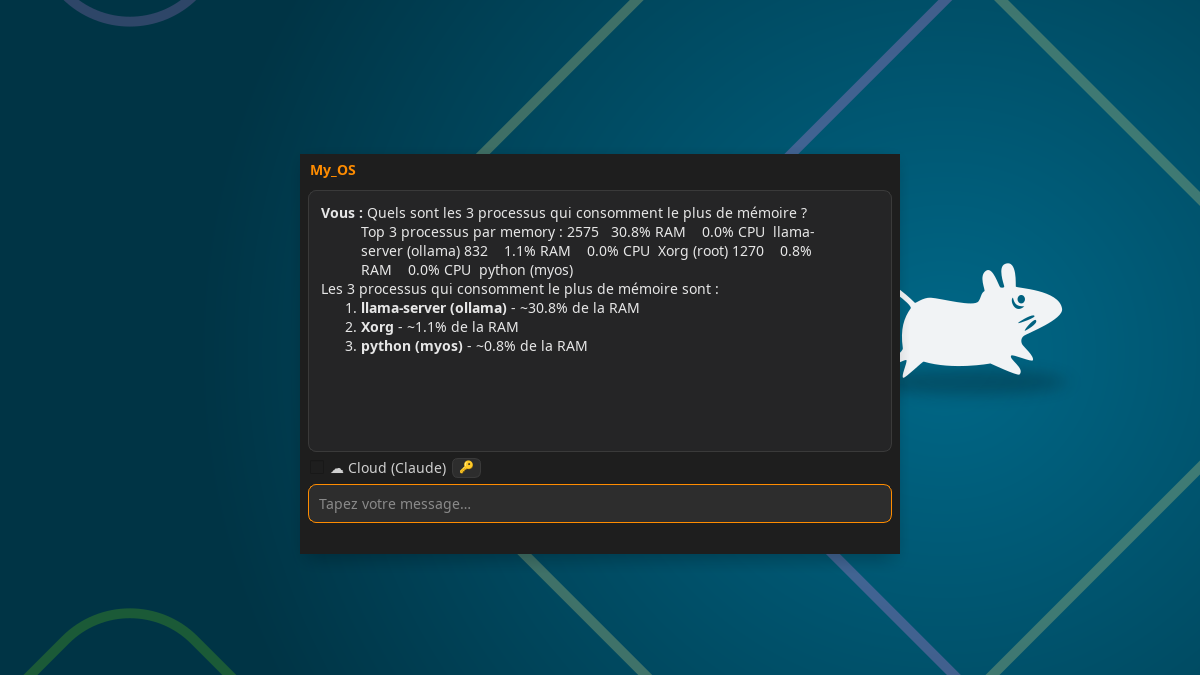
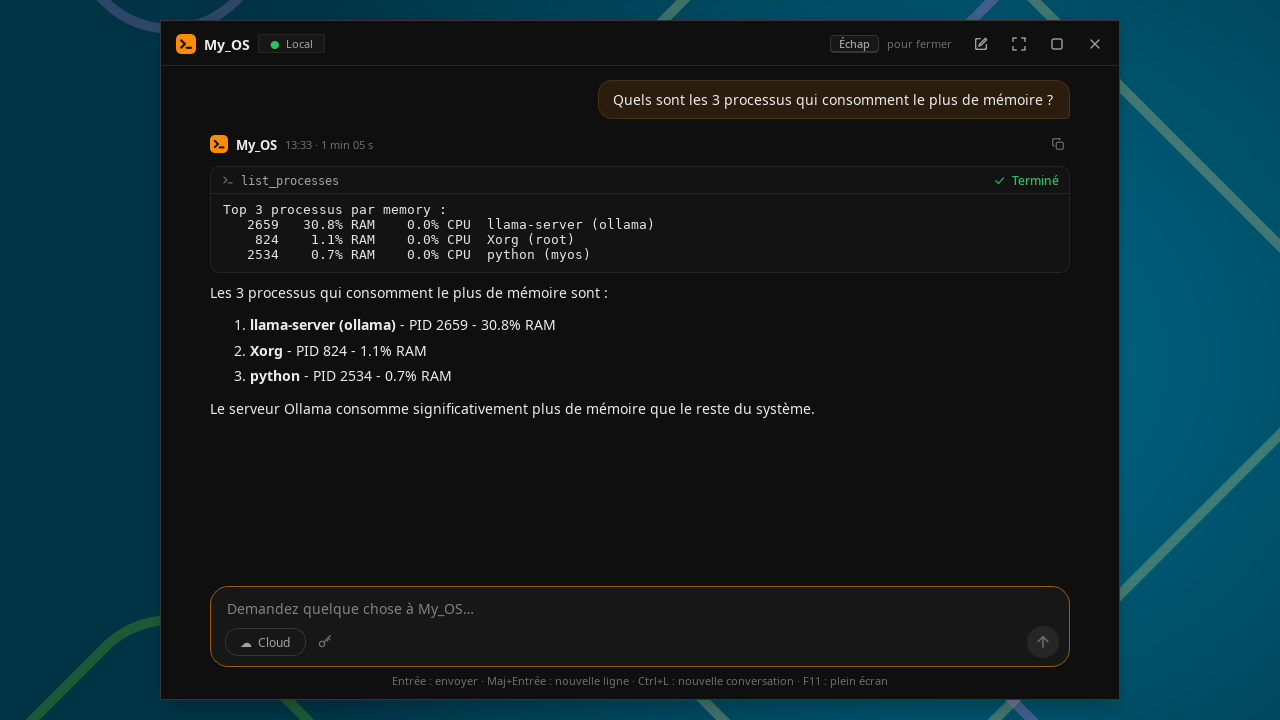
docs(media): captures et demo de la nouvelle interface
Captures reelles de l'ISO (VM, modele local qwen3.5:4b, code de la branche) :
accueil, reponse avec carte d'outil, confirmations de niveau 1 et 2, elevation
polkit, installation terminee ; demo « Range mon dossier Telechargements par
type » refaite (940x680, 7 etapes legendees). Le tableau du README passe a trois
rangees.

diff --git a/README.md b/README.md
@@ -32,15 +32,17 @@ Captures réelles de l'ISO My_OS (VM, modèle local Qwen 3.5 4B, octobre 2026).
 
 *« Range mon dossier Téléchargements par type » : le modèle liste le dossier puis propose
 chaque déplacement ; une seule confirmation « Pour cette session » suffit, il range tout
-et fait son compte rendu. Les temps d'attente sont raccourcis : sans GPU, le modèle a
-mis environ une minute et demie au total.*
+(chaque action dans sa carte) et fait son compte rendu. Les temps d'attente sont
+raccourcis : sans GPU, le modèle a mis environ une minute et vingt secondes au total.*
 
 | | |
 |:---:|:---:|
-| ![Popup et réponse du modèle local](docs/media/popup.png) | ![Confirmation de niveau 1](docs/media/confirmation-niveau1.png) |
-| **Popup au raccourci** — question en langage naturel, résultat de l'outil, réponse du modèle local ; « ☁ Cloud » active Claude à la demande | **Confirmation (niveau 1)** — écriture proposée par le modèle : une fois, ce dossier ou la session |
-| ![Confirmation renforcée de niveau 2](docs/media/confirmation-niveau2.png) | ![Élévation polkit](docs/media/elevation-polkit.png) |
-| **Confirmation renforcée (niveau 2)** — suppression : « une fois » seulement, « Refuser » par défaut | **Élévation polkit** — mot de passe pour la commande exacte, jamais de root permanent |
+| ![Écran d'accueil du popup](docs/media/accueil.png) | ![Popup et réponse du modèle local](docs/media/popup.png) |
+| **Popup au raccourci** — suggestions, rappel « Échap pour fermer » ; fenêtre redimensionnable, agrandie ou en plein écran (`F11`) | **Réponse du modèle local** — le résultat de l'outil dans sa carte, puis la réponse ; « ☁ Cloud » active Claude à la demande |
+| ![Confirmation de niveau 1](docs/media/confirmation-niveau1.png) | ![Confirmation renforcée de niveau 2](docs/media/confirmation-niveau2.png) |
+| **Confirmation (niveau 1)** — écriture proposée par le modèle : une fois, ce dossier ou la session | **Confirmation renforcée (niveau 2)** — suppression : « une fois » seulement, « Refuser » par défaut |
+| ![Élévation polkit](docs/media/elevation-polkit.png) | ![Installation terminée](docs/media/installation.png) |
+| **Élévation polkit** — mot de passe pour la commande exacte, jamais de root permanent | **Installation terminée** — chaque outil dans sa carte (statut, sortie de `pacman` lisible), puis le compte rendu du modèle |
 
 ---
 
